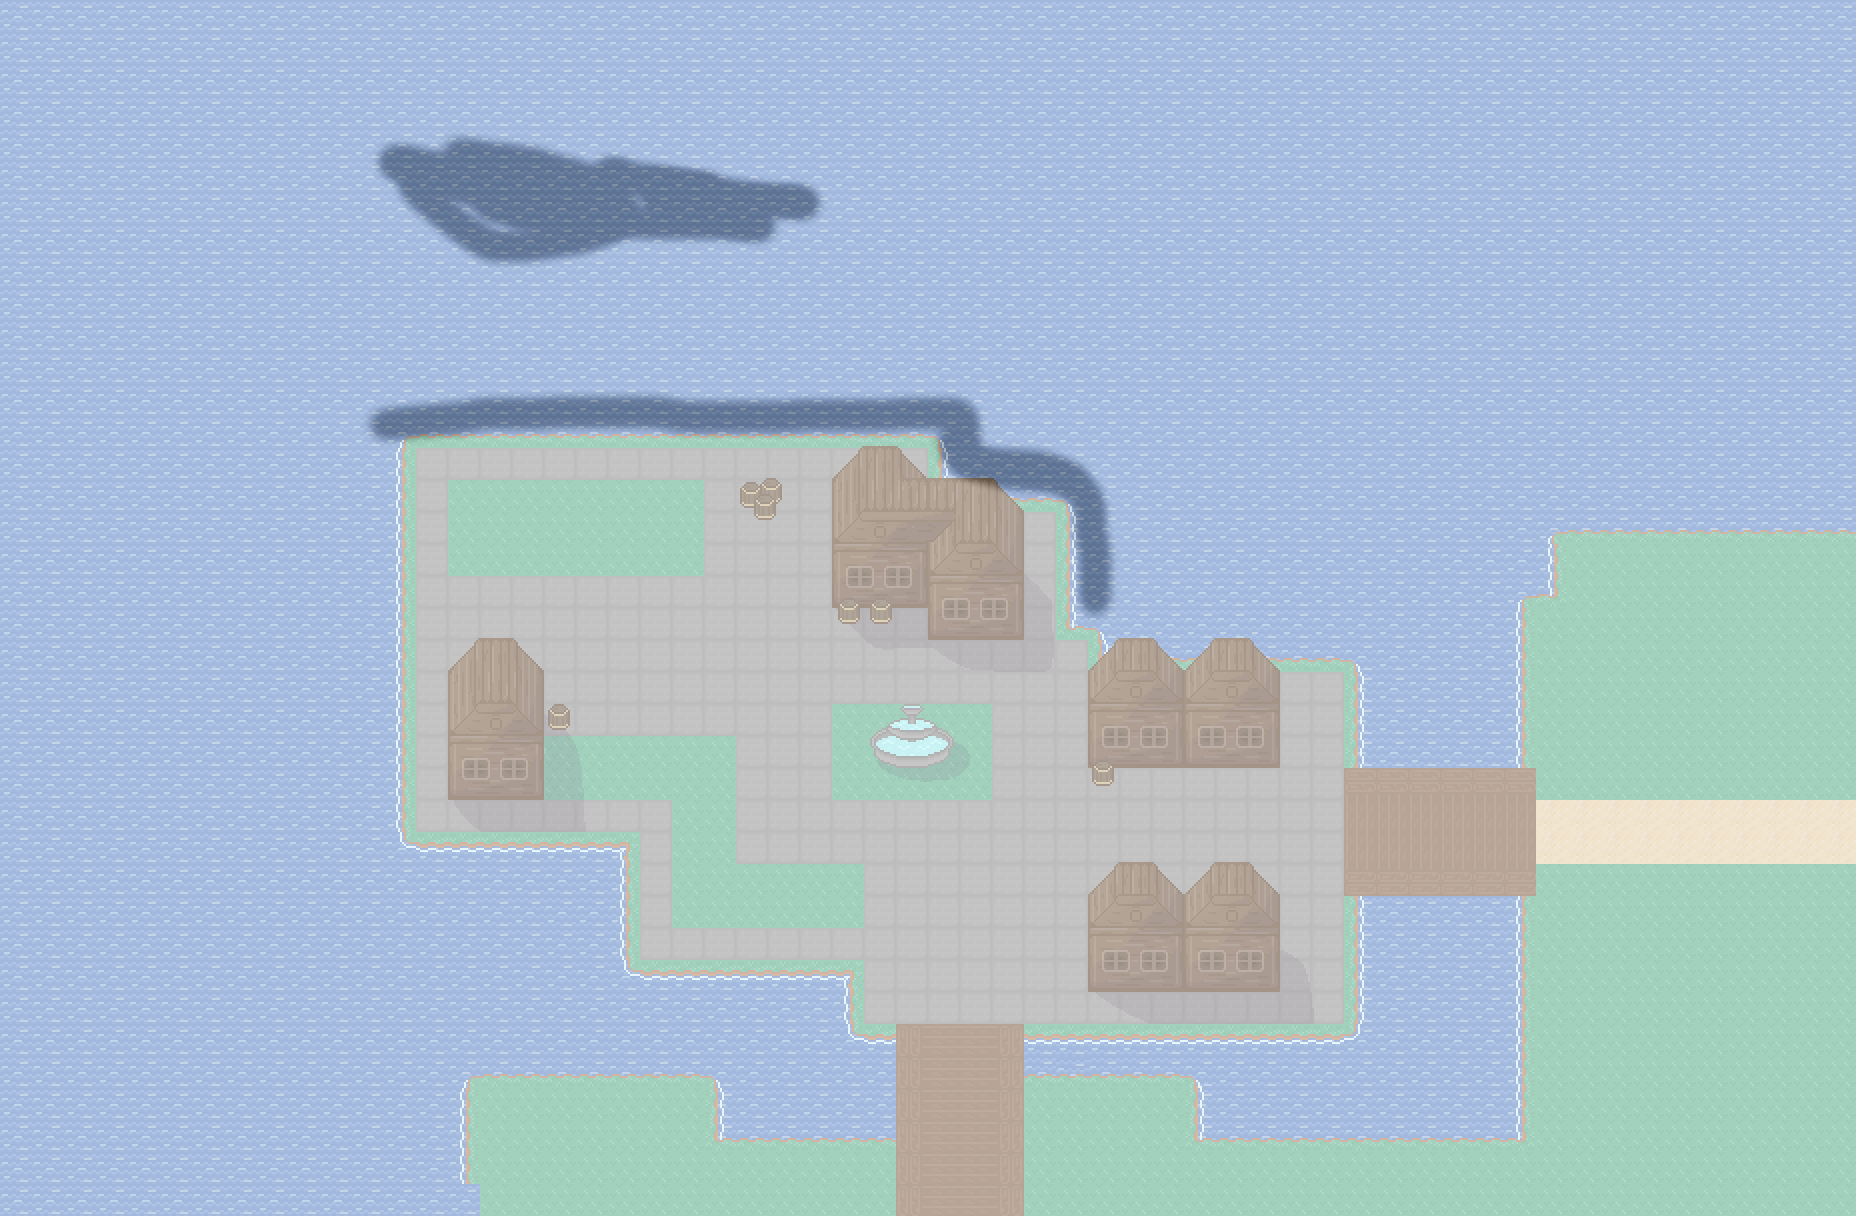
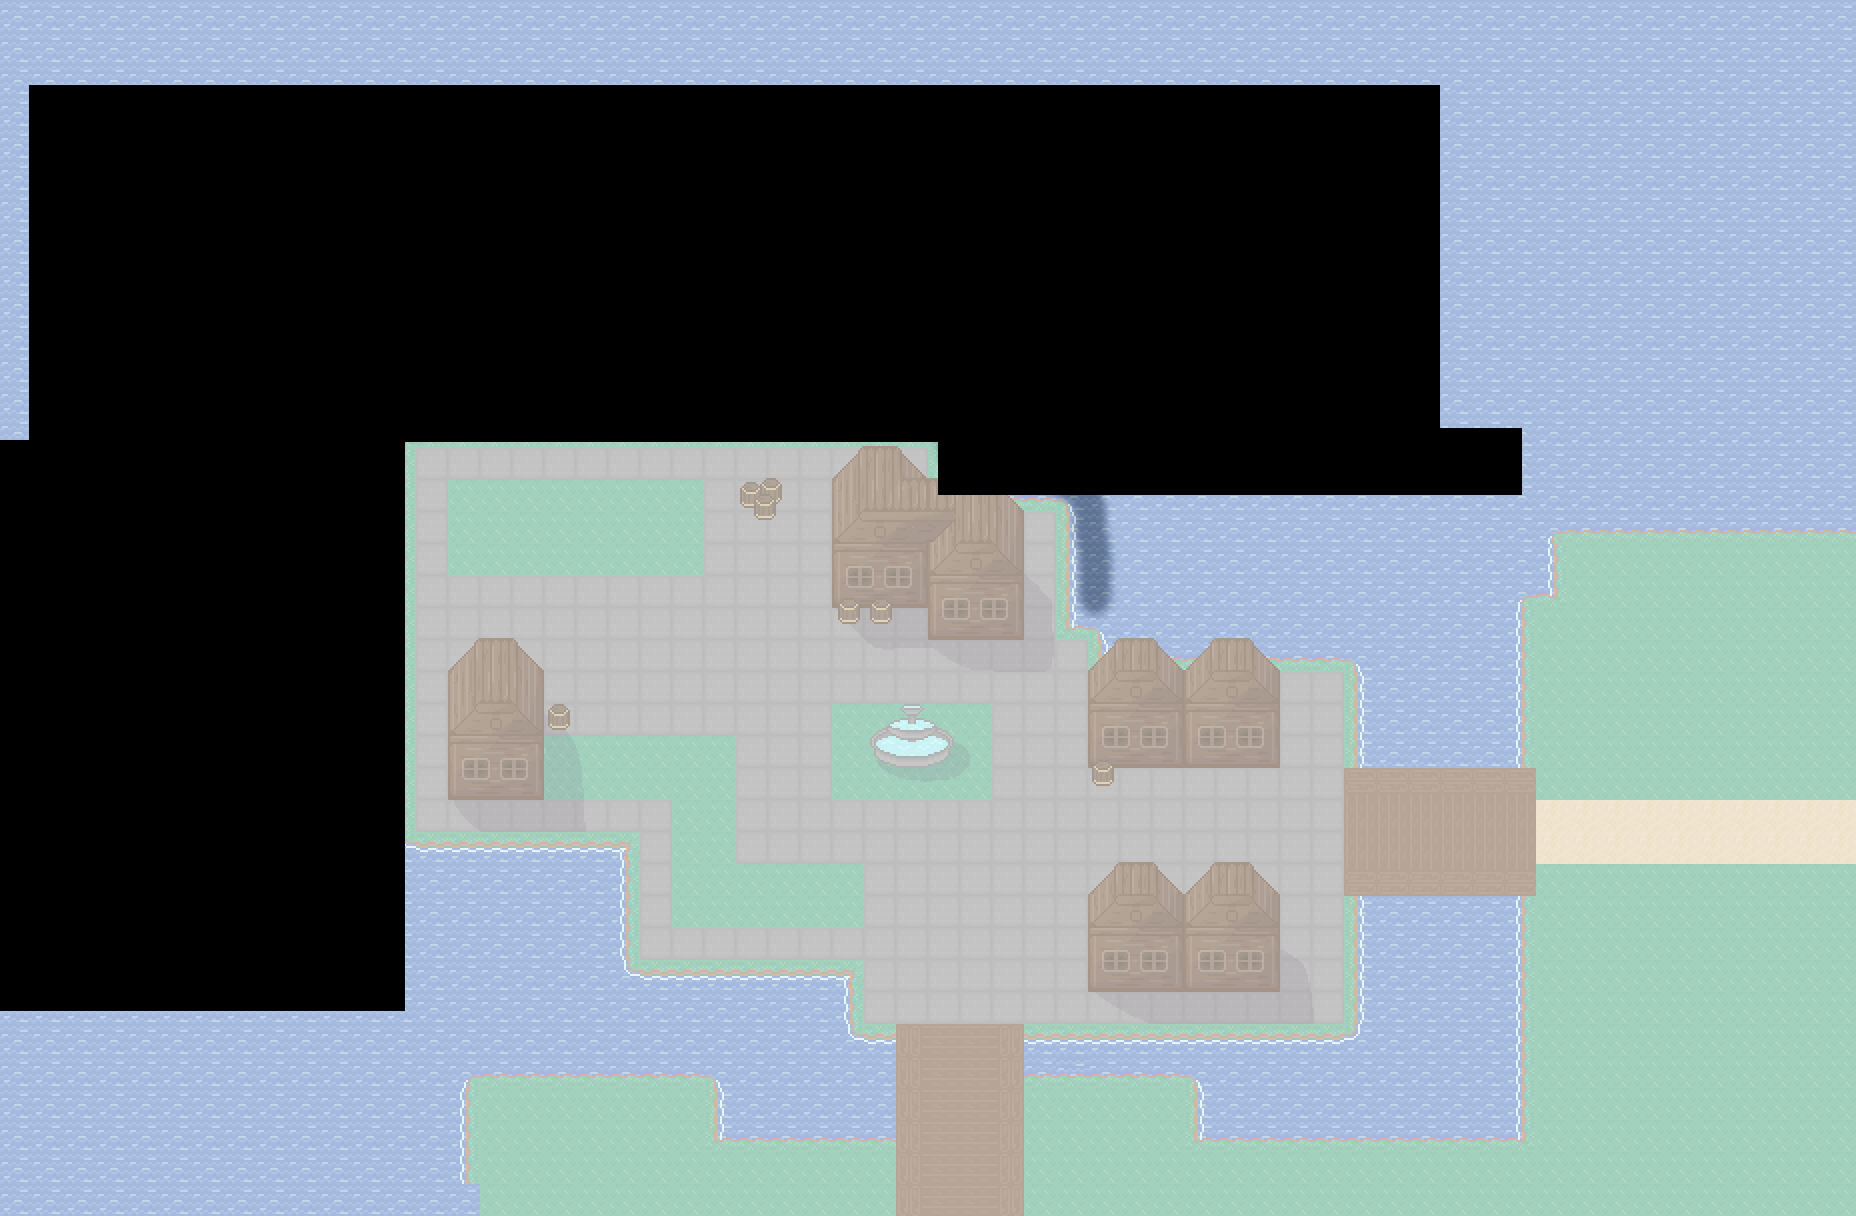
niedziałająca wersja z granicami

diff --git a/nasza_gra/game.py b/nasza_gra/game.py
@@ -3,7 +3,9 @@ import pygame.sysfont
 from pygame.locals import *
 from enum import Enum
 import os
-
+from PIL import Image
+from PIL import *
+import PIL
 
 pygame.init()
 pygame.mixer.init()
@@ -24,7 +26,8 @@ PBUTTON_L = os.path.join(grafiki, 'grafiki\start_L.png')
 PBUTTON_D = os.path.join(grafiki, 'grafiki\start_D.png')
 QBUTTON_L = os.path.join(grafiki, 'grafiki\quit_L.png')
 QBUTTON_D = os.path.join(grafiki, 'grafiki\quit_D.png')
-map_dont_ask_png = os.path.join(grafiki, 'grafiki\PlanMapy.png')
+mapa_normalna = os.path.join(grafiki, 'grafiki\mapka.png')
+mapa_krawedzie = os.path.join(grafiki, 'grafiki\mapka1.png')
 m_font = os.path.join(grafiki, 'grafiki\PixelEmulator-xq08.ttf')
 BACKGROUND = pygame.image.load(os.path.join(grafiki, 'grafiki\\backgronud1200x800.png'))
 
@@ -174,9 +177,11 @@ def set_frame(player_frame, player_stand, whether_leave_frame):
 
 
 # mapa
-mapa = pygame.image.load(map_dont_ask_png)
-mapaX = 100
-mapaY = 100
+mapa = pygame.image.load(mapa_krawedzie)
+mapaX = -150
+mapaY = -300
+krawedzieX = -150
+krawedzieY = -300
 mapaX_step = 0
 mapaY_step = 0
 
@@ -258,13 +263,33 @@ def ruch_mapy():
         whether_exit(event)
     player_frame, whether_leave_frame = set_frame(player_frame, player_stand, whether_leave_frame)
 
+
+def granica_mapy():
+    global mapaX, mapaY, mapaX_step, mapaY_step, krawedzieX, krawedzieY, WINDOW_WIDTH, WINDOW_HEIGHT
+    granica = Image.open(mapa_krawedzie)
+    kolor_granicy = granica.convert("RGB")
+    rgb_pixel_value = kolor_granicy.getpixel( (-mapaX + WINDOW_WIDTH/2 + mapaX_step, -mapaY + WINDOW_HEIGHT/2 + mapaY_step) ) # ma być (0, 0, 0)
+    #print(rgb_pixel_value)
+    if rgb_pixel_value == (0, 0, 0):
+        #print( "mapa to {0}, {1}".format(mapaX, mapaY))
+        #print("KRAWEDŹ!!!")
+        mapaX_step = 0
+        mapaY_step = 0
+    else:
+        mapaX += mapaX_step
+        mapaY += mapaY_step
+        krawedzieX += mapaX_step
+        krawedzieY += mapaY_step
+
+
+
 FIGHT = False
 # PĘTLA GŁówna PROGRAMU
 def game_loop():
     music_stop()
     music_play(BMUSIC, -1)
     while True:
-        global mapaX, mapaY, mapaX_step, mapaY_step, FIGHT
+        global mapaX, mapaY, mapaX_step, mapaY_step, FIGHT, krawedzieX, krawedzieY
         CLOCK.tick(FPS)
         if not FIGHT:
             SCREEN.fill(WHITE)
@@ -272,9 +297,7 @@ def game_loop():
             gracz_wyswietl()
             enemy()
             ruch_mapy()
-            mapaX += mapaX_step
-            mapaY += mapaY_step
-
+            granica_mapy()  
             # WALKA
         else:
             fight()
